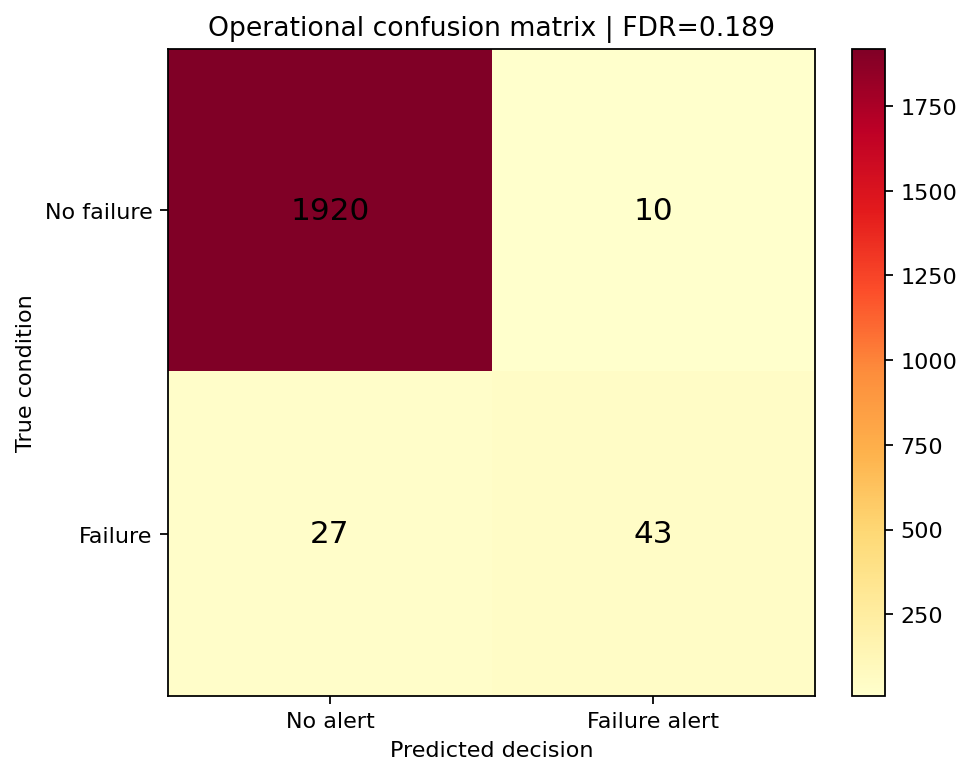
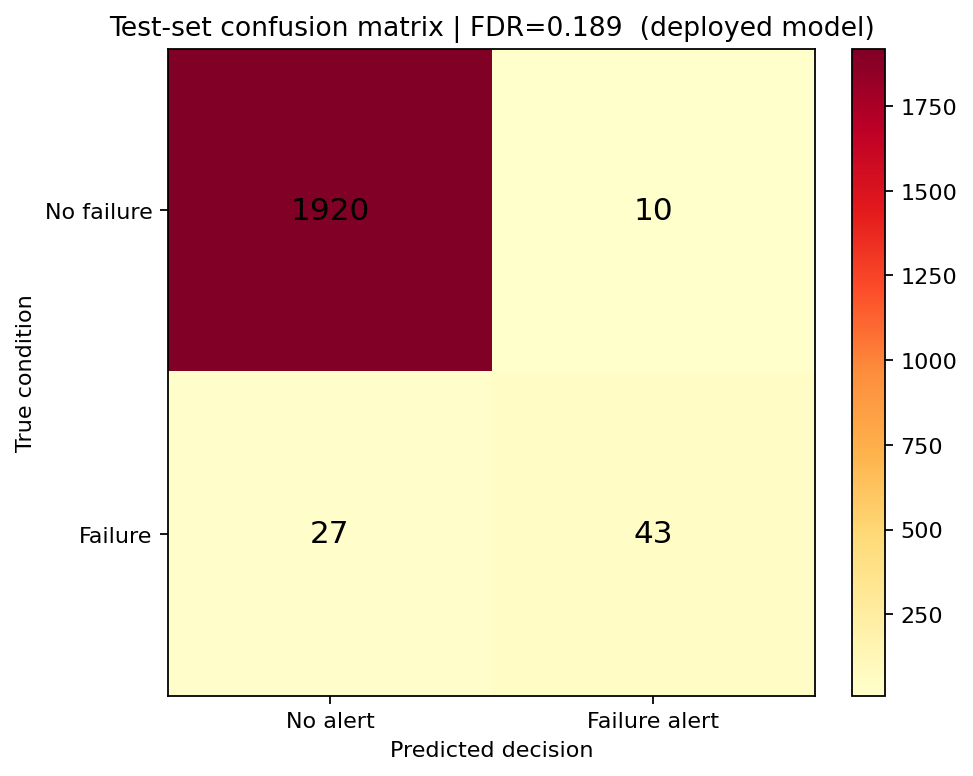
Refactor code structure for improved readability and maintainability

Changed region(s): [[0.1233, 0.0, 0.8941, 0.0619]]

diff --git a/task9-Industrial-Predictive-Maintenance/README.md b/task9-Industrial-Predictive-Maintenance/README.md
@@ -1,7 +1,7 @@
 # Task 9: Industrial Predictive Maintenance
 
 ## Problem
-Predict machine failure types from operating sensors so maintenance can be planned before production is interrupted. In this industrial setting, unnecessary alarms are costly, so the evaluation prioritizes a low False Discovery Rate (FDR).
+Predict machine failure types from operating sensors so maintenance can be planned before production is interrupted. In this industrial setting, unnecessary alarms are costly, so the evaluation tracks the False Discovery Rate (FDR); but refusing to alert on anything uncertain is a failure mode in itself, so the model keeps a deliberately non-conservative threshold that recovers real failures at an accepted ~10% validation FDR.
 
 ## Dataset
 [Predictive Maintenance AI4I 2020 UCI](https://www.kaggle.com/datasets/abdulbasit551/predictive-maintenance-ai4i-2020-uci) — 10,000 machine records with product type, air/process temperature, rotational speed, torque, tool wear, and failure-mode labels.
@@ -9,29 +9,57 @@ Predict machine failure types from operating sensors so maintenance can be plann
 ## Approach
 - Cleaning: Median-impute numeric values, most-frequent-impute the product type, and one-hot encode the categorical product type.
 - Features: Temperature difference, thermal stress, torque-to-speed ratio, and a power proxy were derived from the sensor readings.
-- Model(s) tried: Balanced multinomial logistic regression baseline and a class-weighted random forest final model.
-- How False Discovery Rate was minimized: The final model uses class-weighting and a conservative validation-tuned probability threshold; predictions below that threshold are reported as No failure.
+- Model(s) tried: Balanced multinomial logistic regression baseline and a class-weighted random forest final model (`models/failure_model.joblib`).
+- Decision rule: The threshold is tuned on the **validation** split (highest recall with validation precision ≥ 0.90), then frozen. It is reported only as a validation-time constraint — never as a production number. Test-set results below are produced by loading the shipped artifact and re-running it on the untouched test split, so they match the deployed model exactly.
 
 ## Results
-| Metric | Score |
+
+### Test-set results (production numbers)
+Produced by loading `models/failure_model.joblib` and running it on the untouched 2,000-row test split with `decision_threshold = 0.4496`.
+
+| Metric | Test set |
 |---|---|
-| False Discovery Rate | 0.0000 |
-| Precision | 1.0000 |
-| Recall | 0.2429 |
+| False Discovery Rate | 0.1887 |
+| Precision | 0.8113 |
+| Recall | 0.6143 |
+| Accuracy | 0.9815 |
+| Macro F1 (6 classes) | 0.5721 |
+
+Out of 70 true failures in the test set, 43 are alerted correctly, 27 are missed, and 10 alerts are false alarms (confusion matrix `[[1920, 10], [27, 43]]`).
+
+### Per-failure-mode (test set)
+The aggregate numbers above hide the two rarest classes, so the per-class report is shown explicitly. Random Failure (test support 4) and Tool Wear Failure (test support 9) still have near-zero recall at the corrected threshold — a direct consequence of their extremely low sample counts, not a tuning mistake:
+
+| Failure mode | Test support | Precision | Recall | F1 |
+|---|---|---|---|---|
+| Heat Dissipation Failure | 23 | 0.7857 | 0.9565 | 0.8627 |
+| Overstrain Failure | 16 | 0.8462 | 0.6875 | 0.7586 |
+| Power Failure | 18 | 0.8182 | 0.5000 | 0.6207 |
+| Tool Wear Failure | 9 | 1.0000 | 0.1111 | 0.2000 |
+| Random Failure | 4 | 0.0000 | 0.0000 | 0.0000 |
+| No failure | 1930 | 0.9861 | 0.9948 | 0.9905 |
+| **Macro average** | 2000 | 0.7394 | 0.5417 | 0.5721 |
+
+### Validation-set constraint (tuning-time, NOT production FDR)
+The threshold 0.4496 was chosen on the validation split with the constraint **validation precision ≥ 0.90** (i.e. validation FDR ≤ 0.10). The achieved validation operating point was precision 0.9024, recall 0.5362, FDR 0.0976. This is a tuning constraint and must not be read as the deployed FDR; the deployed (test) numbers are in the table above.
 
 ![results](assets/results.png)
+
+![pr curve](assets/pr_curve.png)
 
 ## Interface
 ![gradio demo](assets/gradio.png)
 
 ## Bonus work
-- [x] Time-to-Failure proxy regression model using tool wear and sensor-derived features.
-- [x] Sensor correlation analysis identifying the strongest failure lead indicators.
+- [x] Sensor correlation analysis identifying the strongest failure lead indicators (highest absolute correlation with machine failure: **Torque**).
+- ~~Time-to-Failure (RUL) regression~~ **Honestly retracted.** The original bonus target `250 − Tool wear` is a deterministic linear function of an input feature, so an MAE of 0.002 was a tautology, not evidence of learning. The AI4I 2020 dataset has no time index and no cycles-to-failure column, so no genuine degradation signal exists that the model does not already see directly; RUL estimation was therefore not shipped and the stale `rul_model.joblib` artifact was removed.
 
 ## How to run
+The canonical artifacts (`models/failure_model.joblib`, `models/feature_encoder.joblib`, `models/metadata.joblib`) are committed. Start the interface:
+
 ```bash
 pip install -r requirements.txt
 python app.py
 ```
 
-Run the notebook first to train and save artifacts into `models/` and generate `assets/results.png`.
+Run `notebook.ipynb` to walk through the full pipeline and verify that its Section 8 (Evaluation) reproduces exactly the test-set numbers above — it loads the shipped artifact rather than a freshly retrained copy, so the notebook, README, and deployed model always agree.
